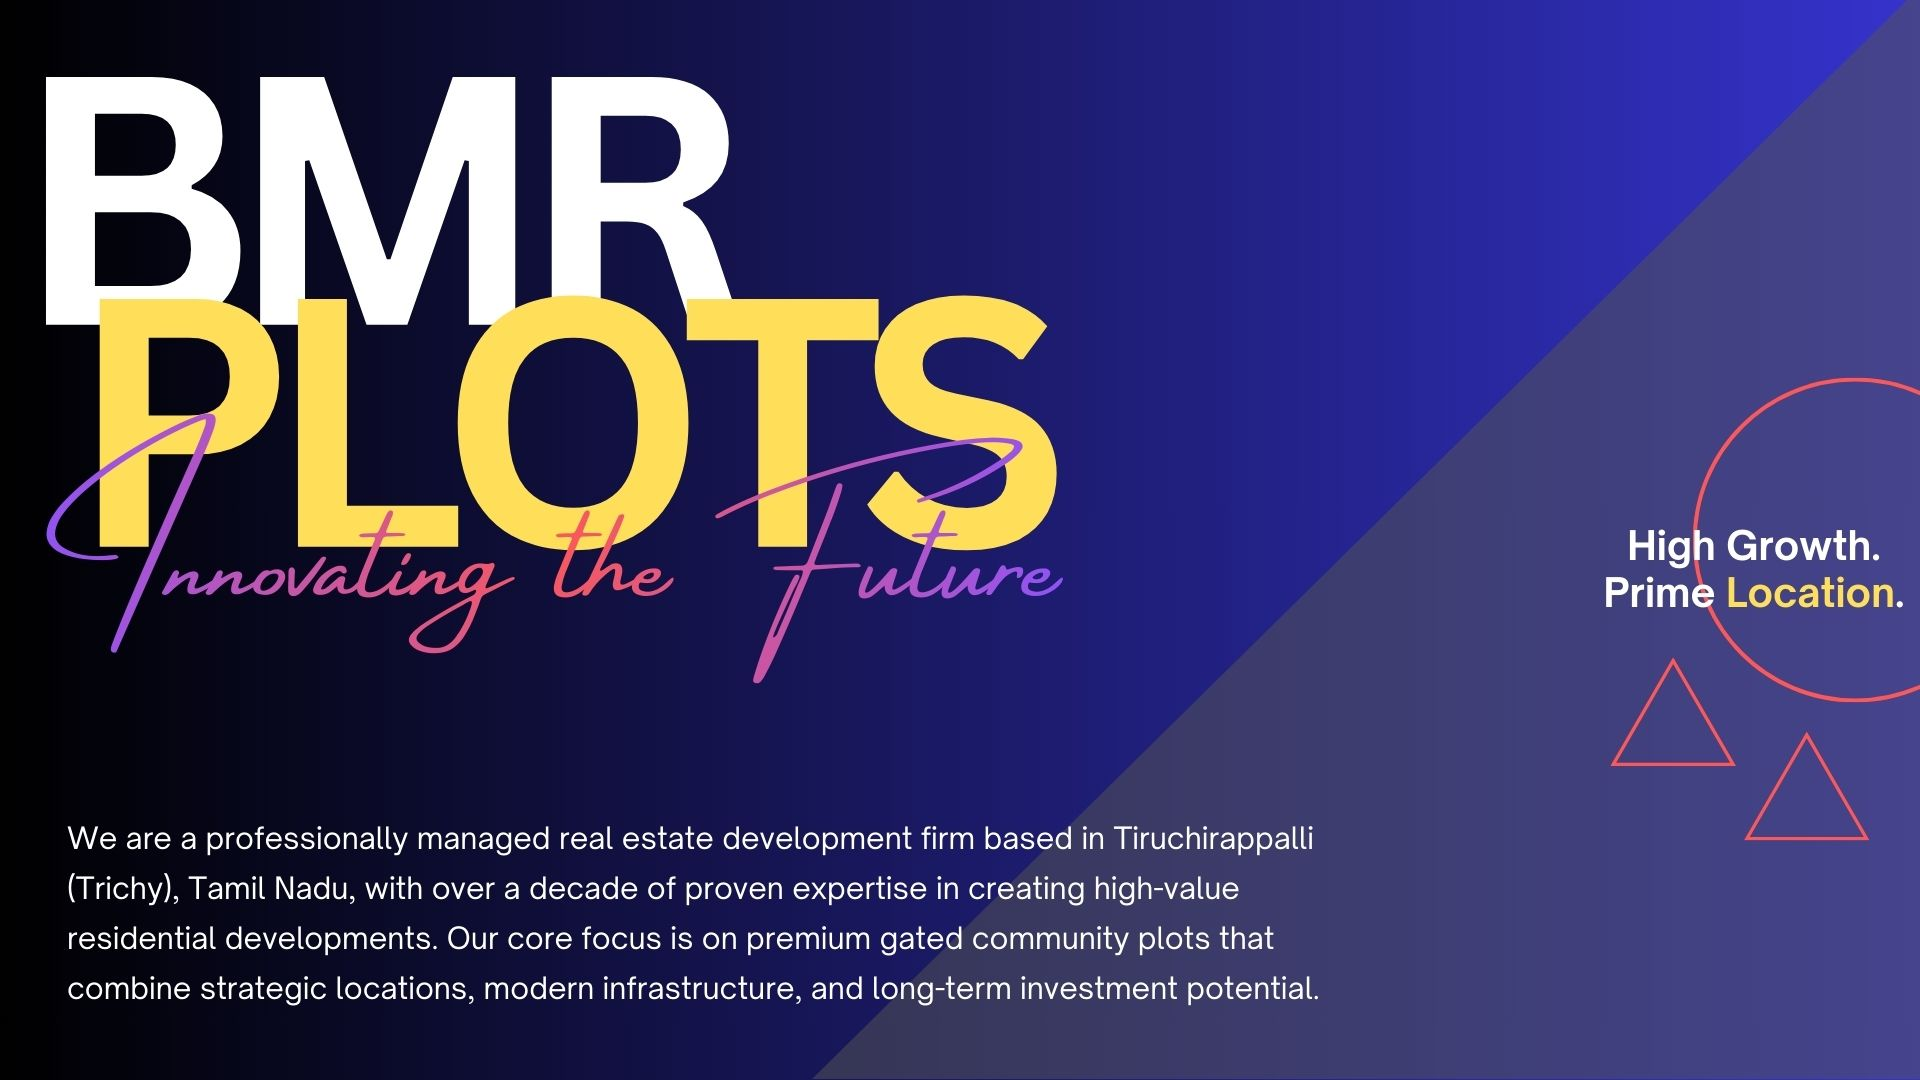
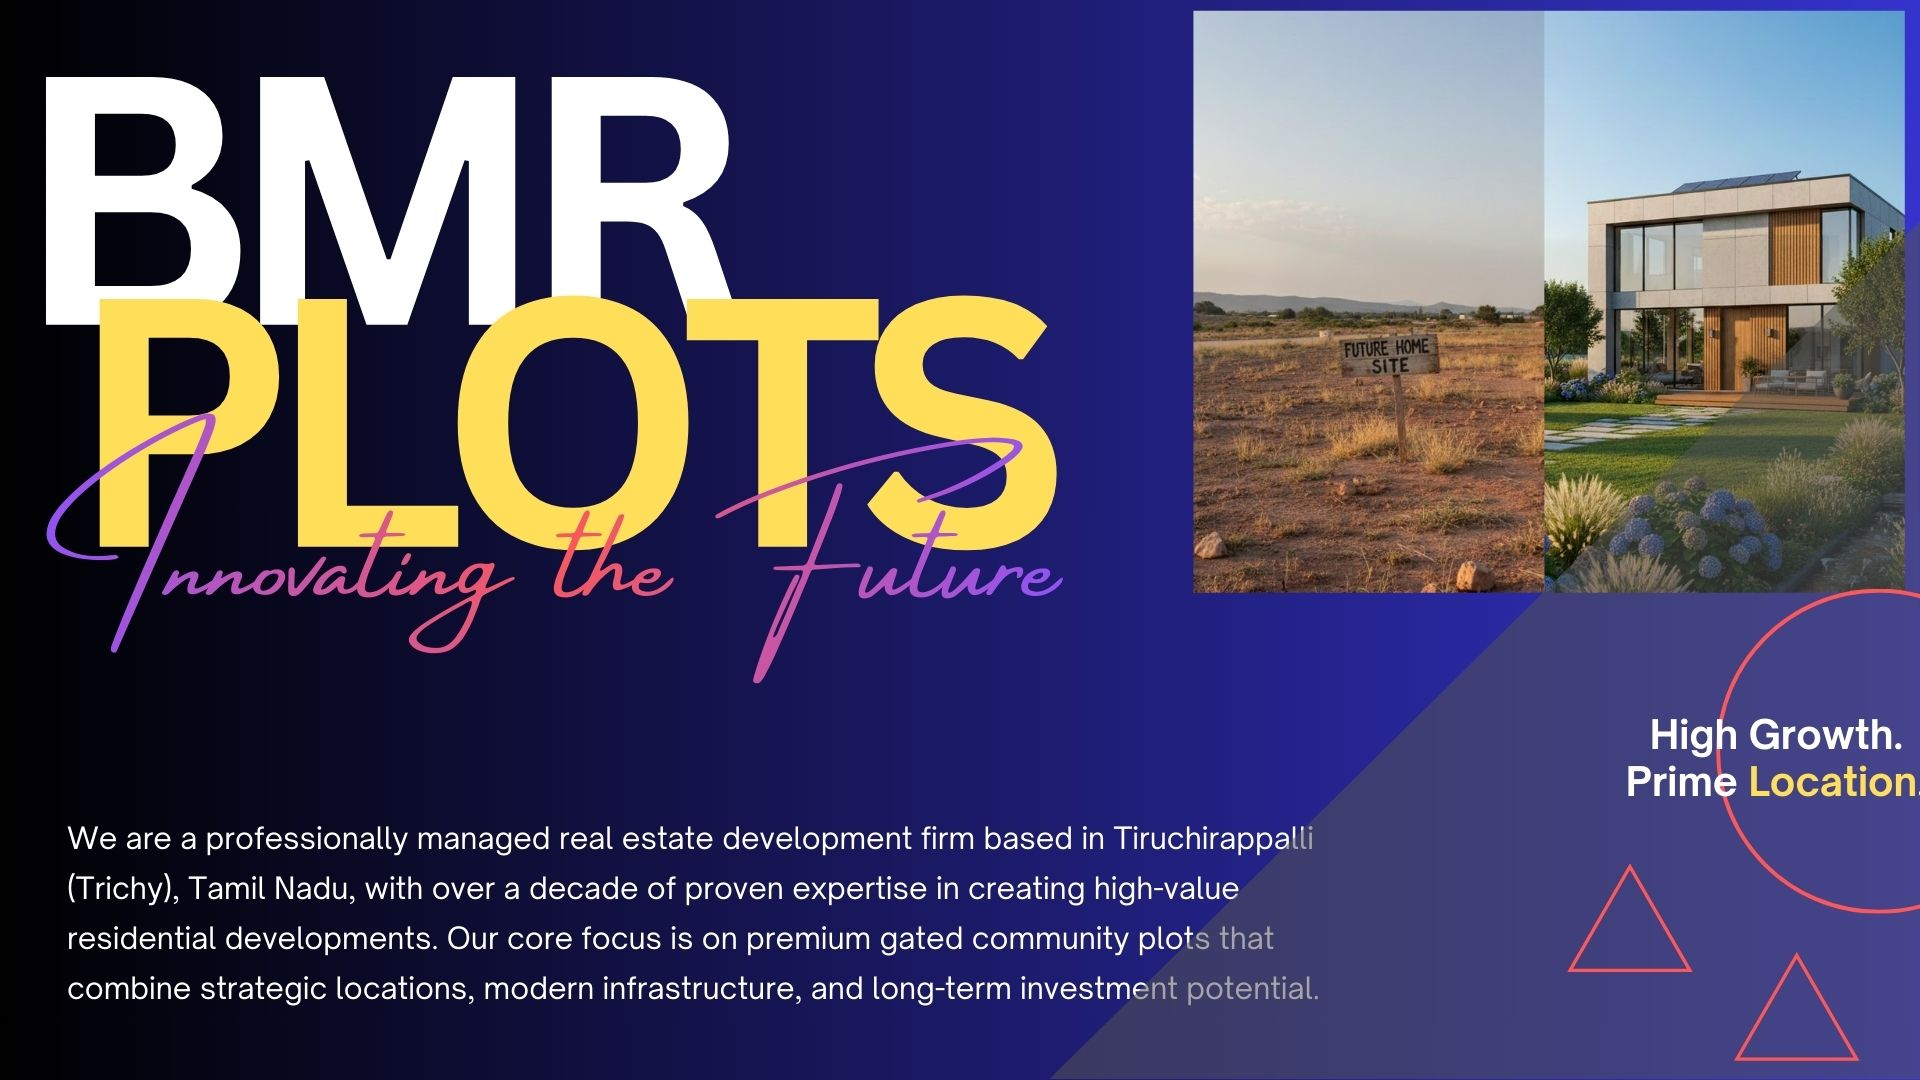
success

diff --git a/index.html b/index.html
@@ -55,7 +55,11 @@
 </nav>
 </div>
 <div class="margin">
-  <div id="carouselExampleIndicators" class="carousel slide">
+  <div id="carouselExampleIndicators" 
+     class="carousel slide" 
+     data-bs-ride="carousel"
+     data-bs-interval="5000">
+
   <div class="carousel-indicators">
     <button type="button" data-bs-target="#carouselExampleIndicators" data-bs-slide-to="0" class="active" aria-current="true" aria-label="Slide 1"></button>
     <button type="button" data-bs-target="#carouselExampleIndicators" data-bs-slide-to="1" aria-label="Slide 2"></button>
@@ -69,7 +73,7 @@
       <img src="Images/Page2.jpg" class="d-block w-100 image1" alt="...">
     </div>
     <div class="carousel-item">
-      <img src="" class="d-block w-100 image1" alt="...">
+      <img src="Images/new_plots.png" class="d-block w-100 image1" alt="...">
     </div>
   </div>
   <button class="carousel-control-prev" type="button" data-bs-target="#carouselExampleIndicators" data-bs-slide="prev">

diff --git a/navbar.css b/navbar.css
@@ -28,6 +28,15 @@
   border-radius:20px;
 }
 
+/* Default (Desktop & large screens) */
 .image1{
   height:80vh;
+ 
+}
+
+/* Mobile view only */
+@media (max-width: 768px) {
+  .image1{
+    height:45vh;   /* adjust: 40–50vh looks best */
+  }
 }
